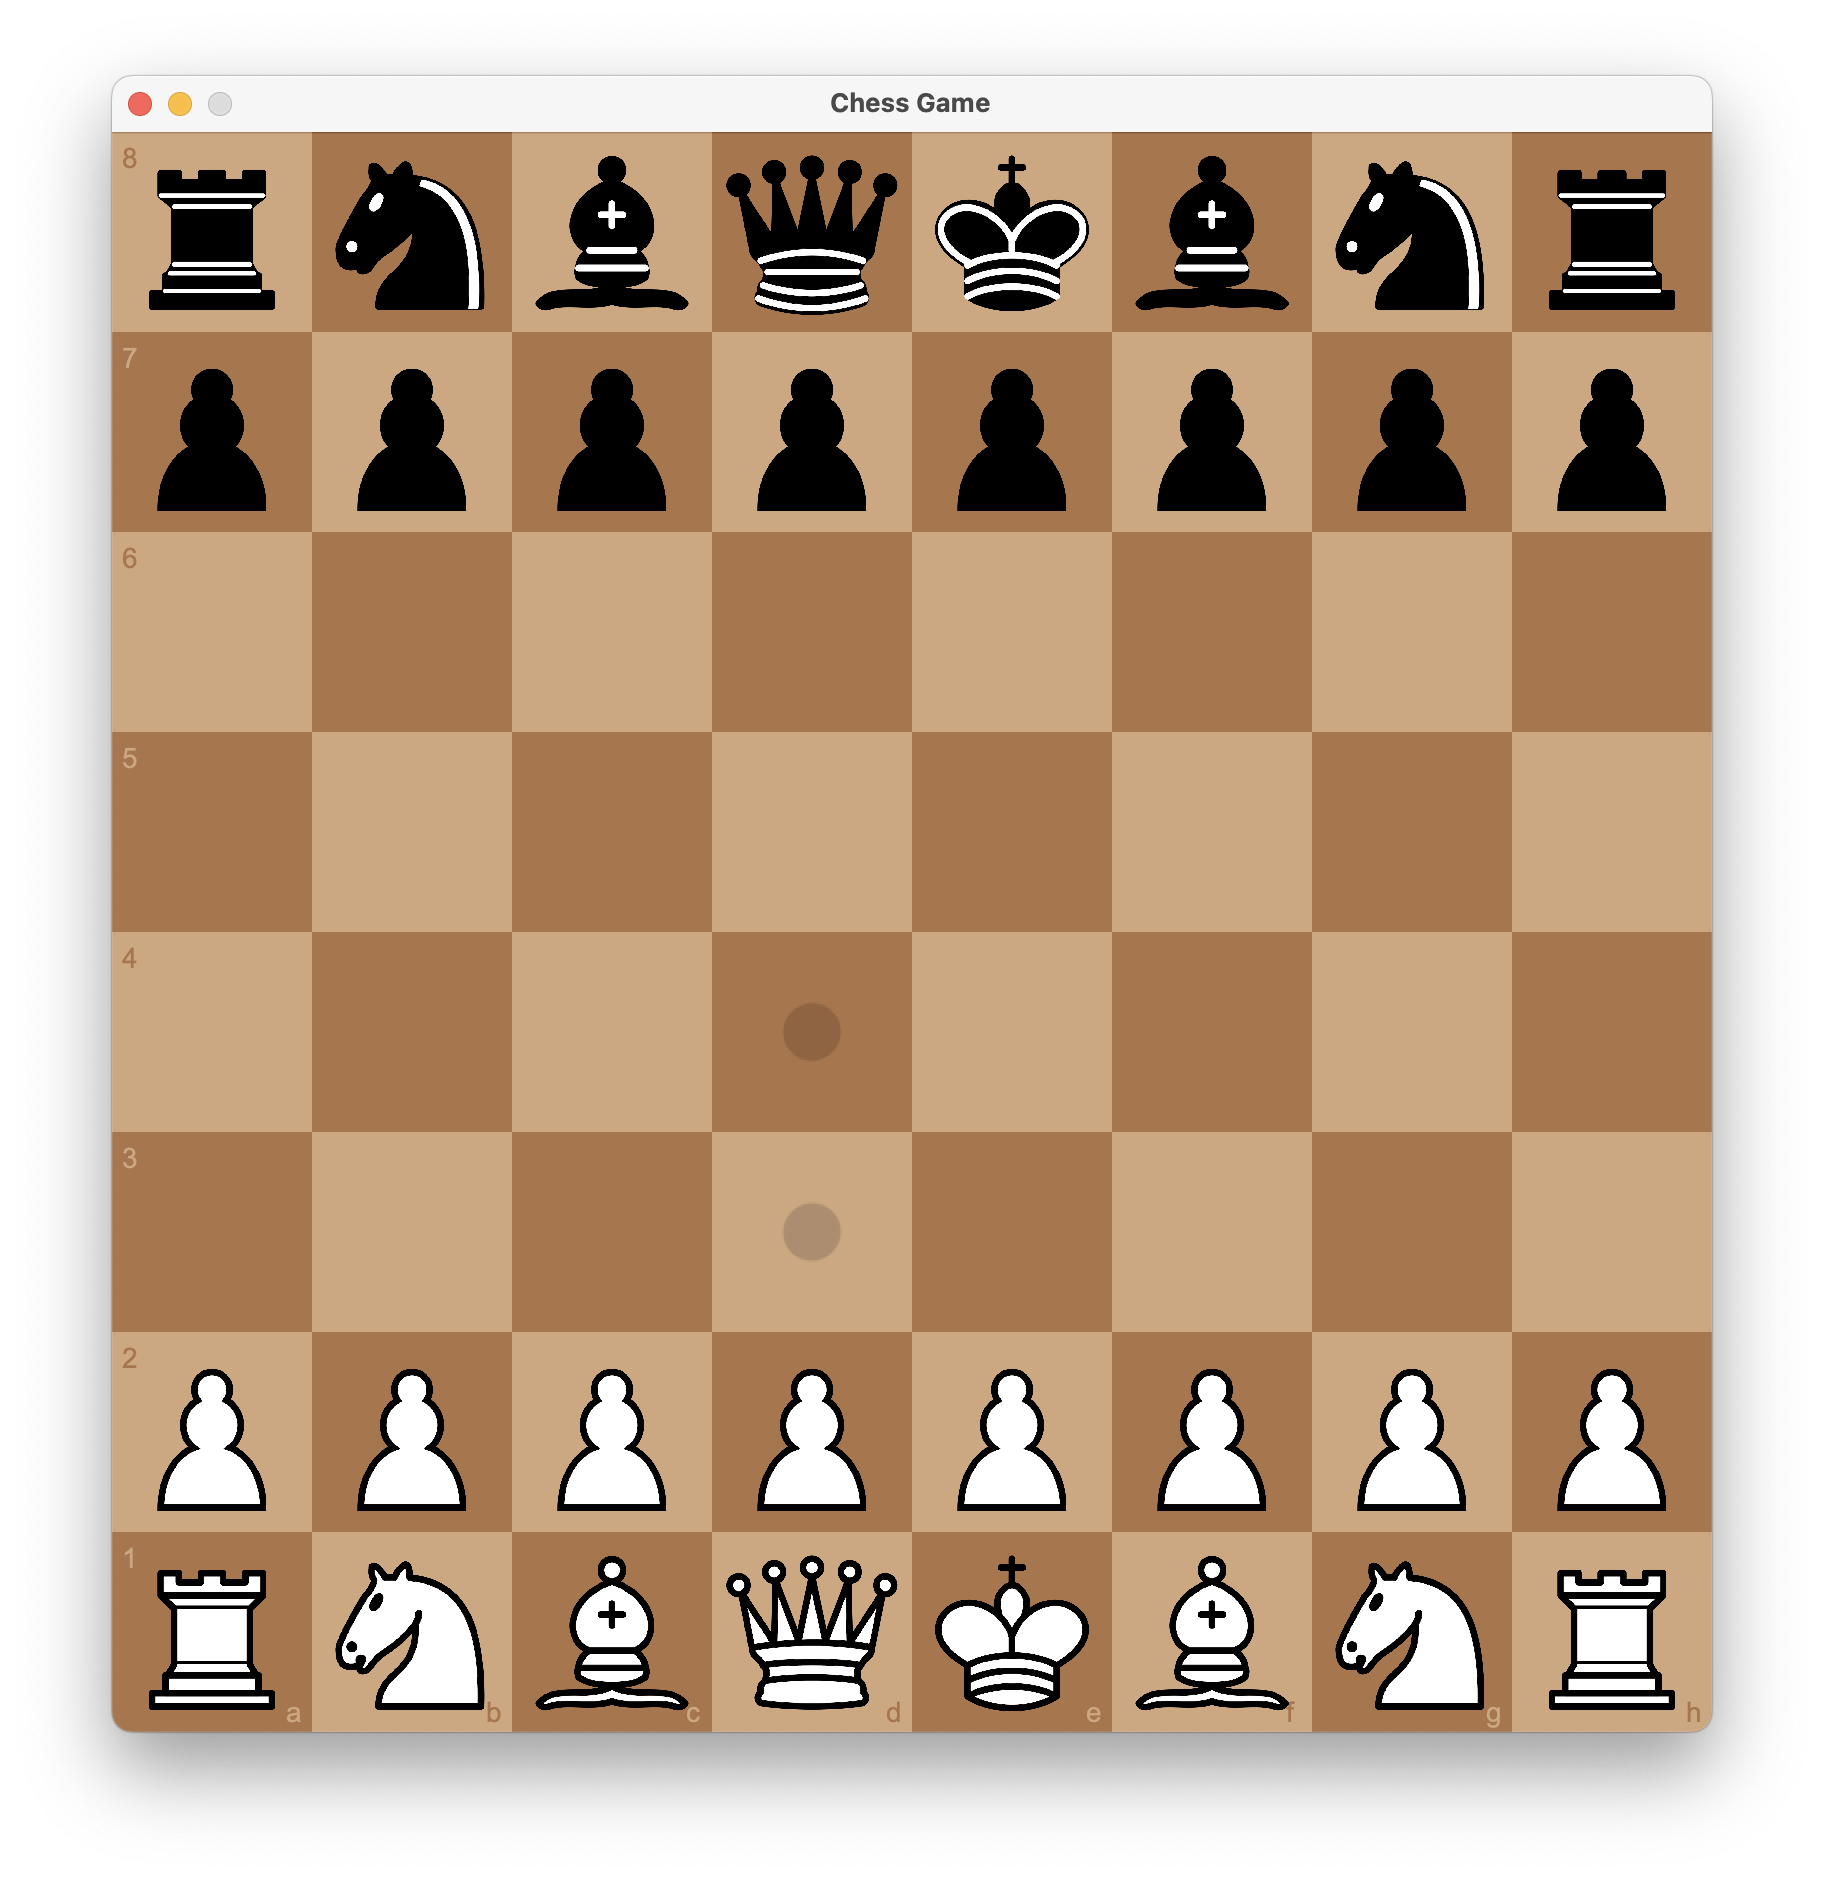
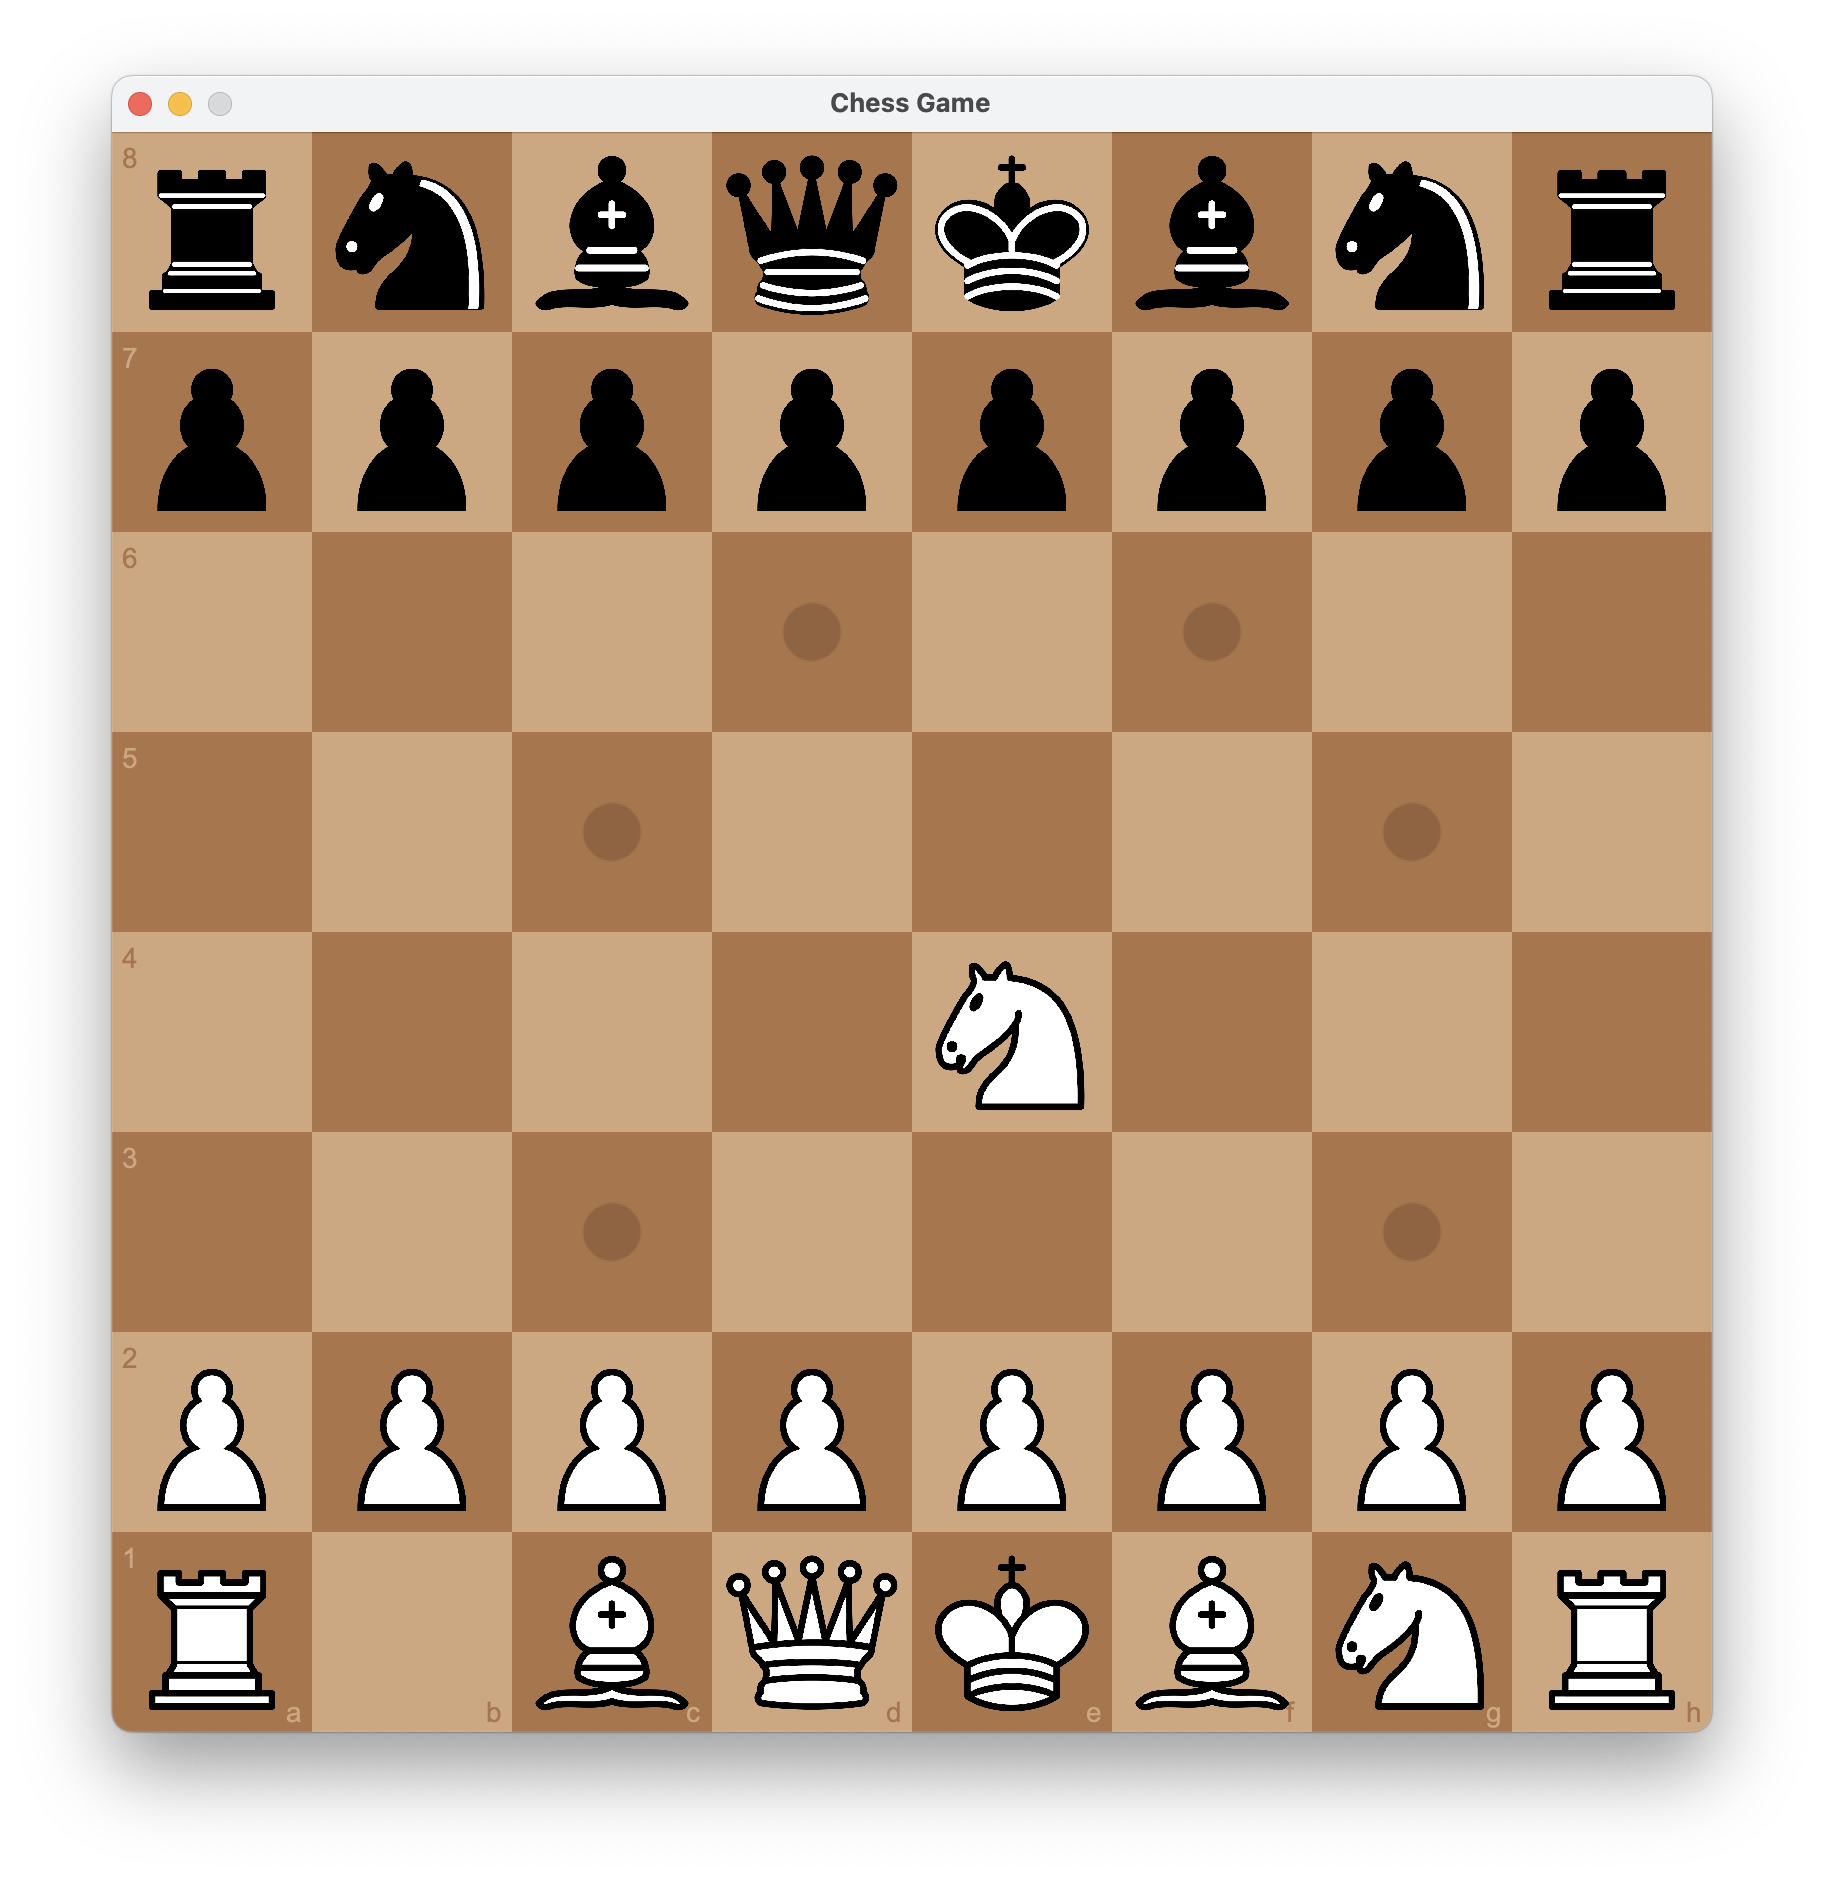
Knight Movement + Indicators

Changed region(s): [[0.5, 0.4936, 0.5938, 0.617], [0.1875, 0.833, 0.2812, 0.9255], [0.4062, 0.617, 0.4688, 0.6787]]

diff --git a/src/piece/pieces/Knight.java b/src/piece/pieces/Knight.java
@@ -1,5 +1,7 @@
 package piece.pieces;
 
+import java.util.ArrayList;
+
 import board.Tile;
 import piece.Piece;
 import piece.PieceColor;
@@ -12,5 +14,50 @@ public class Knight extends Piece {
 	public Knight(PieceColor pieceColor, Tile tile) {
 		super(pieceColor, PieceType.KNIGHT, tile);
 		pieceImage = getPieceImage(PIECE_TYPE, pieceColor);
+	}
+
+	@Override
+	public ArrayList<Tile> getMoveableTiles() {
+		ArrayList<Tile> moveableTiles = new ArrayList<Tile>();
+		Tile[][] chessBoard = getChessBoard();
+		int file = this.getFile();
+		int rank = this.getRank();
+		if (isWithinBounds(file - 2) && isWithinBounds(rank + 1)) {
+			moveableTiles.add(chessBoard[file - 2][rank + 1]);
+		}
+		if (isWithinBounds(file - 1) && isWithinBounds(rank + 2)) {
+			moveableTiles.add(chessBoard[file - 1][rank + 2]);
+		}
+		if (isWithinBounds(file - 2) && isWithinBounds(rank - 1)) {
+			moveableTiles.add(chessBoard[file - 2][rank - 1]);
+		}
+		if (isWithinBounds(file - 1) && isWithinBounds(rank - 2)) {
+			moveableTiles.add(chessBoard[file - 1][rank - 2]);
+		}
+		if (isWithinBounds(file + 2) && isWithinBounds(rank + 1)) {
+			moveableTiles.add(chessBoard[file + 2][rank + 1]);
+		}
+		if (isWithinBounds(file + 1) && isWithinBounds(rank + 2)) {
+			moveableTiles.add(chessBoard[file + 1][rank + 2]);
+		}
+		if (isWithinBounds(file + 2) && isWithinBounds(rank - 1)) {
+			moveableTiles.add(chessBoard[file + 2][rank - 1]);
+		}
+		if (isWithinBounds(file + 1) && isWithinBounds(rank - 2)) {
+			moveableTiles.add(chessBoard[file + 1][rank - 2]);
+		}
+		return moveableTiles;
+	}
+
+	@Override
+	public ArrayList<Tile> getIndicatedTiles() {
+		ArrayList<Tile> moveableTiles = getMoveableTiles();
+		ArrayList<Tile> indicatedTiles = new ArrayList<Tile>();
+		for (Tile tile : moveableTiles) {
+			if (!tile.isPieceOnTile()) {
+				indicatedTiles.add(tile);
+			}
+		}
+		return indicatedTiles;
 	}
 }

diff --git a/src/piece/Piece.java b/src/piece/Piece.java
@@ -7,6 +7,7 @@ import java.util.ArrayList;
 import java.awt.AlphaComposite;
 import java.awt.Graphics2D;
 
+import board.Board;
 import board.Tile;
 
 public class Piece {
@@ -19,8 +20,10 @@ public class Piece {
 	private PieceType pieceType;
 	private Tile tile;
 	private ArrayList<Tile> moveableTiles = new ArrayList<Tile>();
+	private ArrayList<Tile> indicatedTiles = new ArrayList<Tile>();
 	protected BufferedImage pieceImage;
 	private BufferedImage moveableTileImage;
+	private Tile[][] chessBoard = Board.chessBoard;
 
 	public Piece(PieceColor pieceColor, PieceType pieceType, Tile tile) {
 		this.file = tile.getFile();
@@ -53,6 +56,17 @@ public class Piece {
 			e.printStackTrace();
 		}
 		return moveableTileImage;
+	}
+
+	// BOOLEANS
+	protected boolean isWithinBounds(int n) {
+		if (n < 0) {
+			return false;
+		}
+		if (n > 7) {
+			return false;
+		}
+		return true;
 	}
 
 	// GETTERS
@@ -88,8 +102,16 @@ public class Piece {
 		return tile;
 	}
 
+	public Tile[][] getChessBoard() {
+		return Board.chessBoard;
+	}
+
 	public ArrayList<Tile> getMoveableTiles() {
 		return moveableTiles;
+	}
+
+	public ArrayList<Tile> getIndicatedTiles() {
+		return indicatedTiles;
 	}
 
 	// SETTERS
@@ -119,10 +141,6 @@ public class Piece {
 		setRank(tile.getRank());
 		setX(tile.getX());
 		setY(tile.getY());
-	}
-
-	public void setMoveableTiles(ArrayList<Tile> tiles) {
-		this.moveableTiles = tiles;
 	}
 
 	// VOID

diff --git a/src/piece/pieces/Pawn.java b/src/piece/pieces/Pawn.java
@@ -2,7 +2,6 @@ package piece.pieces;
 
 import java.util.ArrayList;
 
-import board.Board;
 import board.Tile;
 import piece.Piece;
 import piece.PieceColor;
@@ -11,7 +10,6 @@ import piece.PieceType;
 public class Pawn extends Piece {
 
 	private final PieceType PIECE_TYPE = PieceType.PAWN;
-	private Tile[][] chessBoard = Board.chessBoard;
 
 	public Pawn(PieceColor pieceColor, Tile tile) {
 		super(pieceColor, PieceType.PAWN, tile);
@@ -21,6 +19,7 @@ public class Pawn extends Piece {
 	@Override
 	public ArrayList<Tile> getMoveableTiles() {
 		ArrayList<Tile> moveableTiles = new ArrayList<Tile>();
+		Tile[][] chessBoard = getChessBoard();
 		int file = this.getFile();
 		int rank = this.getRank();
 		if (this.getPieceColor().getPieceColorName() == PieceColor.WHITE.name()) {
@@ -52,5 +51,10 @@ public class Pawn extends Piece {
 			return moveableTiles;
 		}
 		return moveableTiles;
+	}
+
+	@Override
+	public ArrayList<Tile> getIndicatedTiles() {
+		return getMoveableTiles();
 	}
 }

diff --git a/src/main/GameWindow.java b/src/main/GameWindow.java
@@ -80,7 +80,7 @@ public class GameWindow extends JPanel implements Runnable {
 		chessBoard.drawChessBoard(graphics2d);
 		chessBoard.drawInitialChessPieces(graphics2d);
 		if (getSelectedPiece() != null) {
-			getSelectedPiece().drawIndicators(graphics2d, getSelectedPiece().getMoveableTiles());
+			getSelectedPiece().drawIndicators(graphics2d, getSelectedPiece().getIndicatedTiles());
 		}
 	}
 
@@ -92,6 +92,7 @@ public class GameWindow extends JPanel implements Runnable {
 			}
 			if (getSelectedPiece() != null) {
 				if (getSelectedPiece().getMoveableTiles().contains(getSelectedTile())) {
+					getSelectedPiece().getTile().removePiece();;
 					getSelectedPiece().setTile(getSelectedTile());
 					getSelectedTile().setPiece(getSelectedPiece());
 					setSelectedPiece(null);
